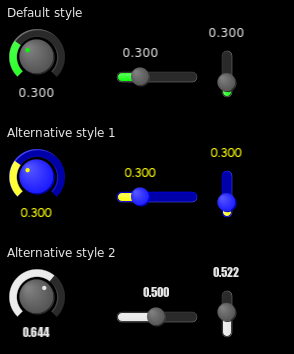
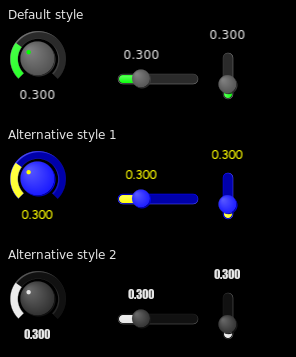
Improved example

diff --git a/examples/styles.cpp b/examples/styles.cpp
@@ -54,7 +54,7 @@ Style style =
     /* Alternative style 2*/
     {Urid::urid (URI "/bw"), makeAny<Style>({
         {Urid::urid (STYLEPROPERTY_FGCOLORS_URI), makeAny<ColorMap>(whites)},
-        {Urid::urid (STYLEPROPERTY_BGCOLORS_URI), makeAny<ColorMap>(darks)},
+        {Urid::urid (STYLEPROPERTY_BGCOLORS_URI), makeAny<ColorMap>({darkdarkgrey, darkgrey, black, black})},
         {Urid::urid (URI "/bw/label"), makeAny<Style>({
             {Urid::urid (STYLEPROPERTY_FONT_URI), makeAny<Font>(Font ("fantasy", CAIRO_FONT_SLANT_NORMAL, CAIRO_FONT_WEIGHT_NORMAL, 12.0))},
             {Urid::urid (STYLEPROPERTY_TXCOLORS_URI), makeAny<ColorMap>(whites)},
